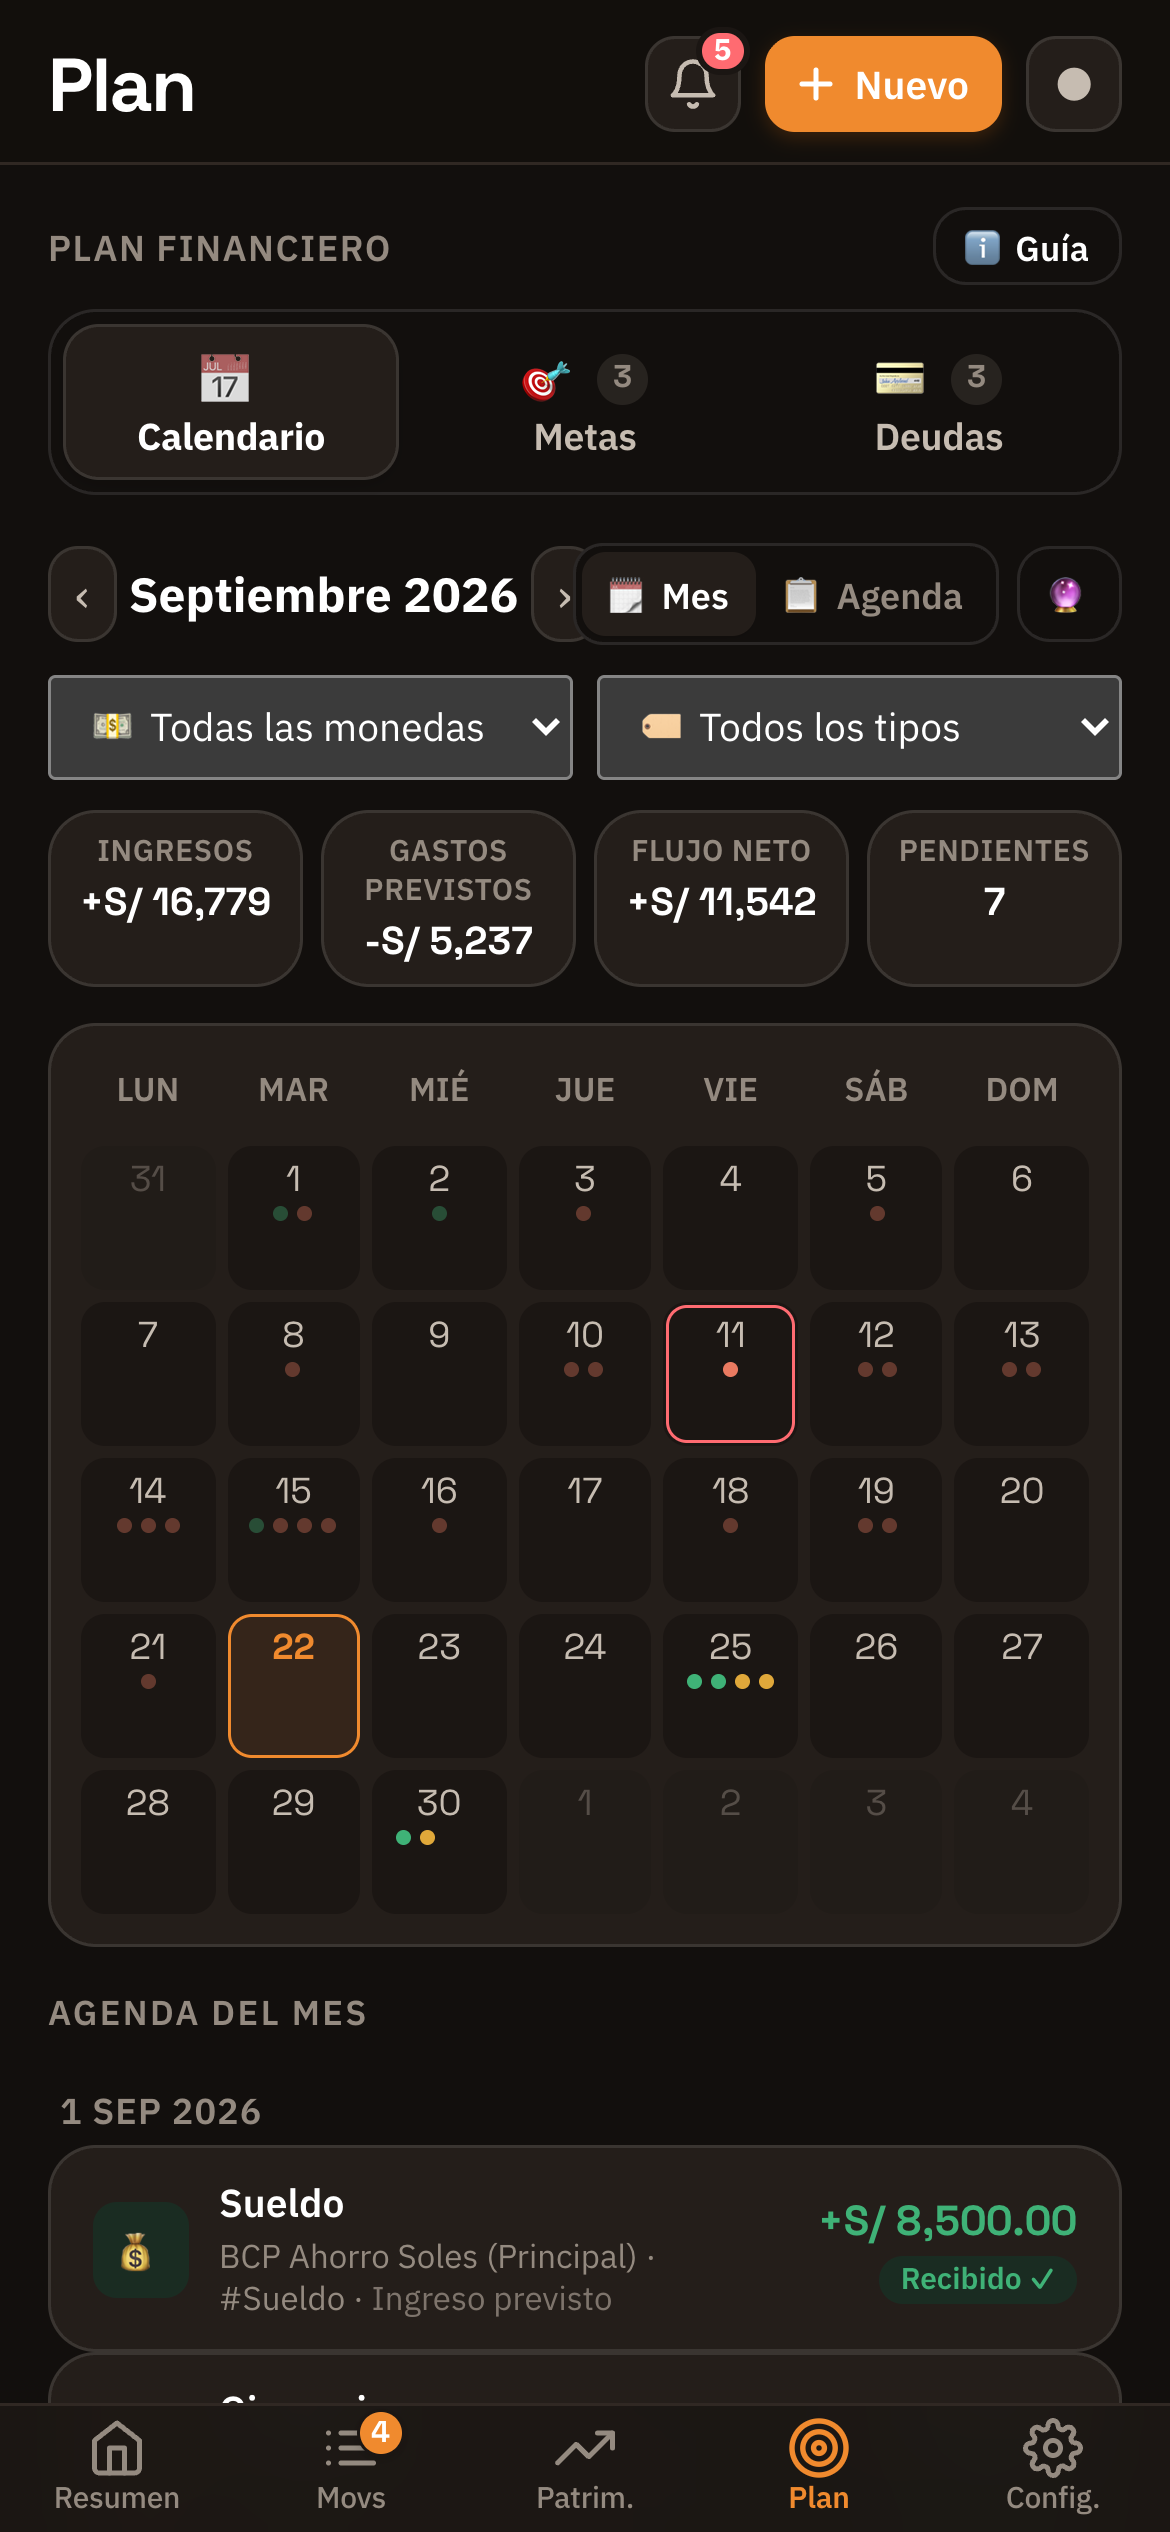
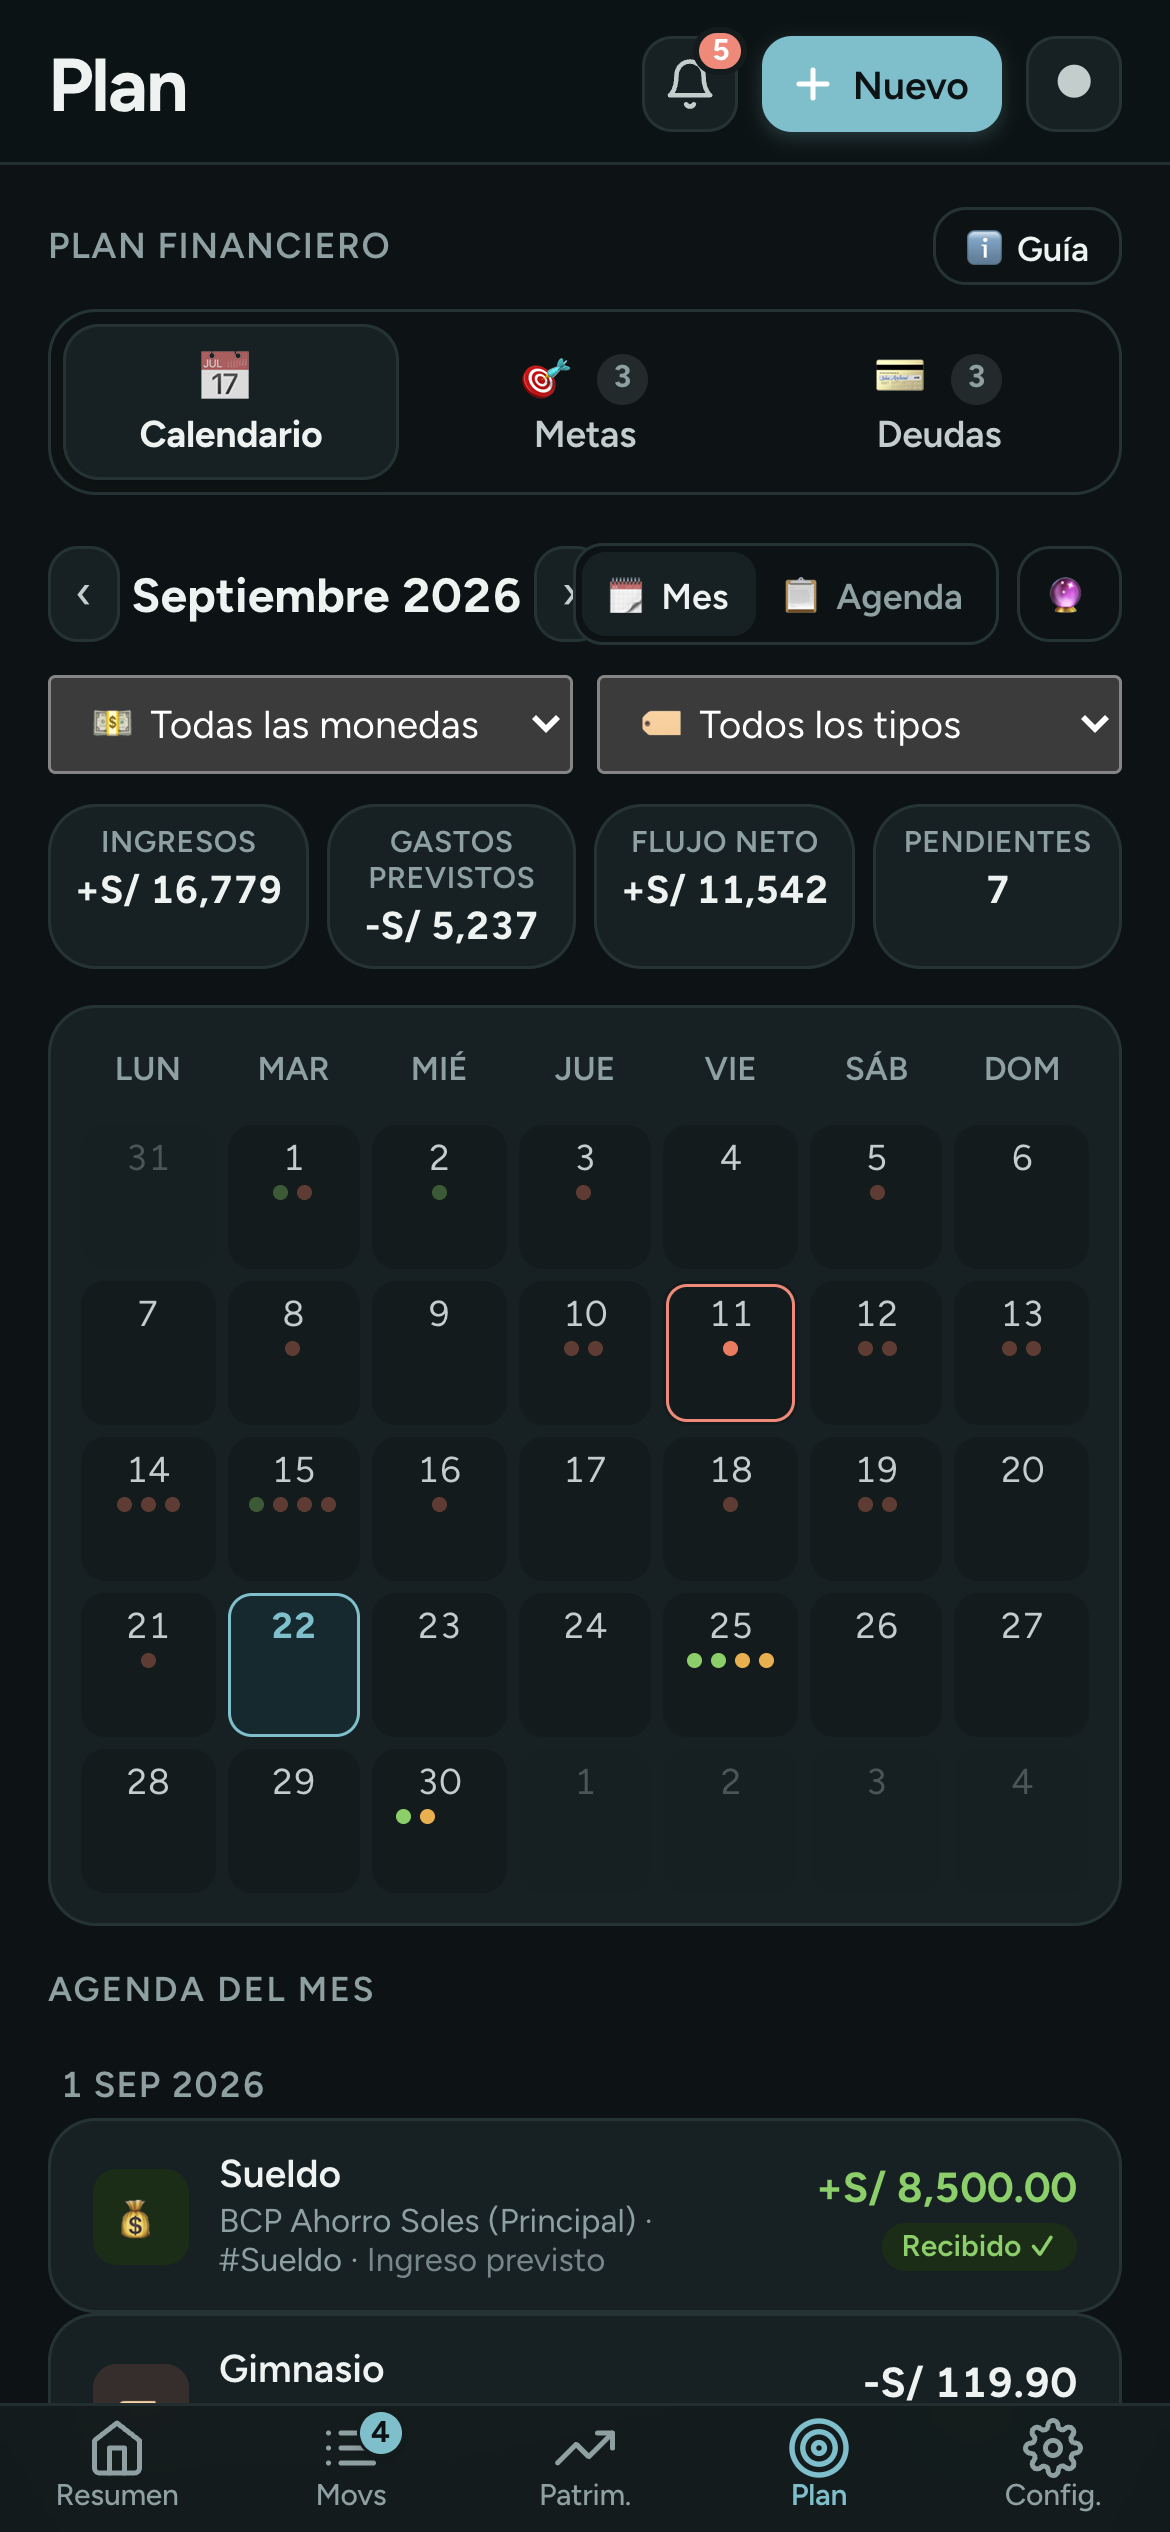
docs(showcase): rebrand Chanchito to Faro
New Faro logo and icons, screenshots regenerated with the new palette
(petróleo + ámbar, Figtree), README name and faro:// capture scheme.

diff --git a/README.md b/README.md
@@ -1,8 +1,10 @@
 <p align="center">
-  <img src="logo.png" alt="Chanchito Logo" width="160">
+  <img src="logo.png" alt="Logo de Faro" width="160">
 </p>
 
-<h1 align="center">Chanchito</h1>
+<h1 align="center">Faro</h1>
+
+<p align="center"><sub>Antes llamada Chanchito.</sub></p>
 
 <p align="center">
   <strong>App de finanzas personales local-first — sin backend, sin base de datos externa, con privacidad total y respaldos cifrados. PWA instalable y app nativa para iPhone a partir del mismo código.</strong>
@@ -54,7 +56,7 @@ _Todas las cifras, saldos, comercios y movimientos de estas capturas son **datos
   <tr>
     <td valign="top"><sub><strong>Revisión editable.</strong> CSV/Excel, PDF, foto y Gmail terminan siempre aquí antes de guardar. Detecta duplicados por cuenta + fecha + monto aunque la descripción cambie entre fuentes.</sub></td>
     <td valign="top"><sub><strong>Formatos enseñables.</strong> Enseñas un correo o un CSV nuevo con 2–5 ejemplos, marcas los campos y se prueba contra todos antes de activarse. Sin código, sin IA, con versiones.</sub></td>
-    <td valign="top"><sub><strong>Captura desde Apple Pay.</strong> Un Atajo de iOS dispara <code>chanchito://capture</code> con comercio y monto en cada pago con Wallet; la app abre el registro ya prellenado.</sub></td>
+    <td valign="top"><sub><strong>Captura desde Apple Pay.</strong> Un Atajo de iOS dispara <code>faro://capture</code> con comercio y monto en cada pago con Wallet; la app abre el registro ya prellenado.</sub></td>
   </tr>
 </table>
 
@@ -113,7 +115,7 @@ Los gestores de finanzas comerciales (Mint, YNAB, hojas de cálculo) tienen limi
 
 ## ✅ La Solución
 
-**Chanchito** es una Progressive Web App construida a medida con arquitectura *local-first*, empaquetada también como app nativa de iOS:
+**Faro** es una Progressive Web App construida a medida con arquitectura *local-first*, empaquetada también como app nativa de iOS:
 - **Flujo de caja y presupuestos**: KPIs por moneda, presupuestos con historial y rollover, ritmo de gasto (pacing).
 - **Plan financiero predictivo**: calendario unificado, conciliación automática contra movimientos reales, proyección a 45 días y simulador *"¿Qué pasa si...?"*.
 - **Gestor de deudas**: calculadora de amortización verificada y simulador Avalancha.
@@ -192,6 +194,7 @@ Los gestores de finanzas comerciales (Mint, YNAB, hojas de cálculo) tienen limi
 | **Integraciones** | Google Identity Services / Sign-In nativo (Gmail y Drive, OAuth en el cliente), Cloudflare Workers (proxy sin estado para OCR/IA) |
 | **Procesamiento de documentos** | `pdf.js` local con reconstrucción posicional, SheetJS, Google Vision OCR, Claude Haiku / Gemini / OpenAI con salidas estructuradas |
 | **Testing** | 18 suites en Node.js (cálculo financiero, parsers, conciliación, ML, seguridad, backups, deep links) + smoke test de UI con Puppeteer |
+| **Identidad visual** | Faro: logo vectorial de un faro (PNG, AppIcon de iOS claro/oscuro/tinted y splash generados desde una sola geometría), paleta petróleo + luz ámbar con tokens CSS para claro y oscuro, tipografía Figtree con cifras tabulares |
 
 ---
 
